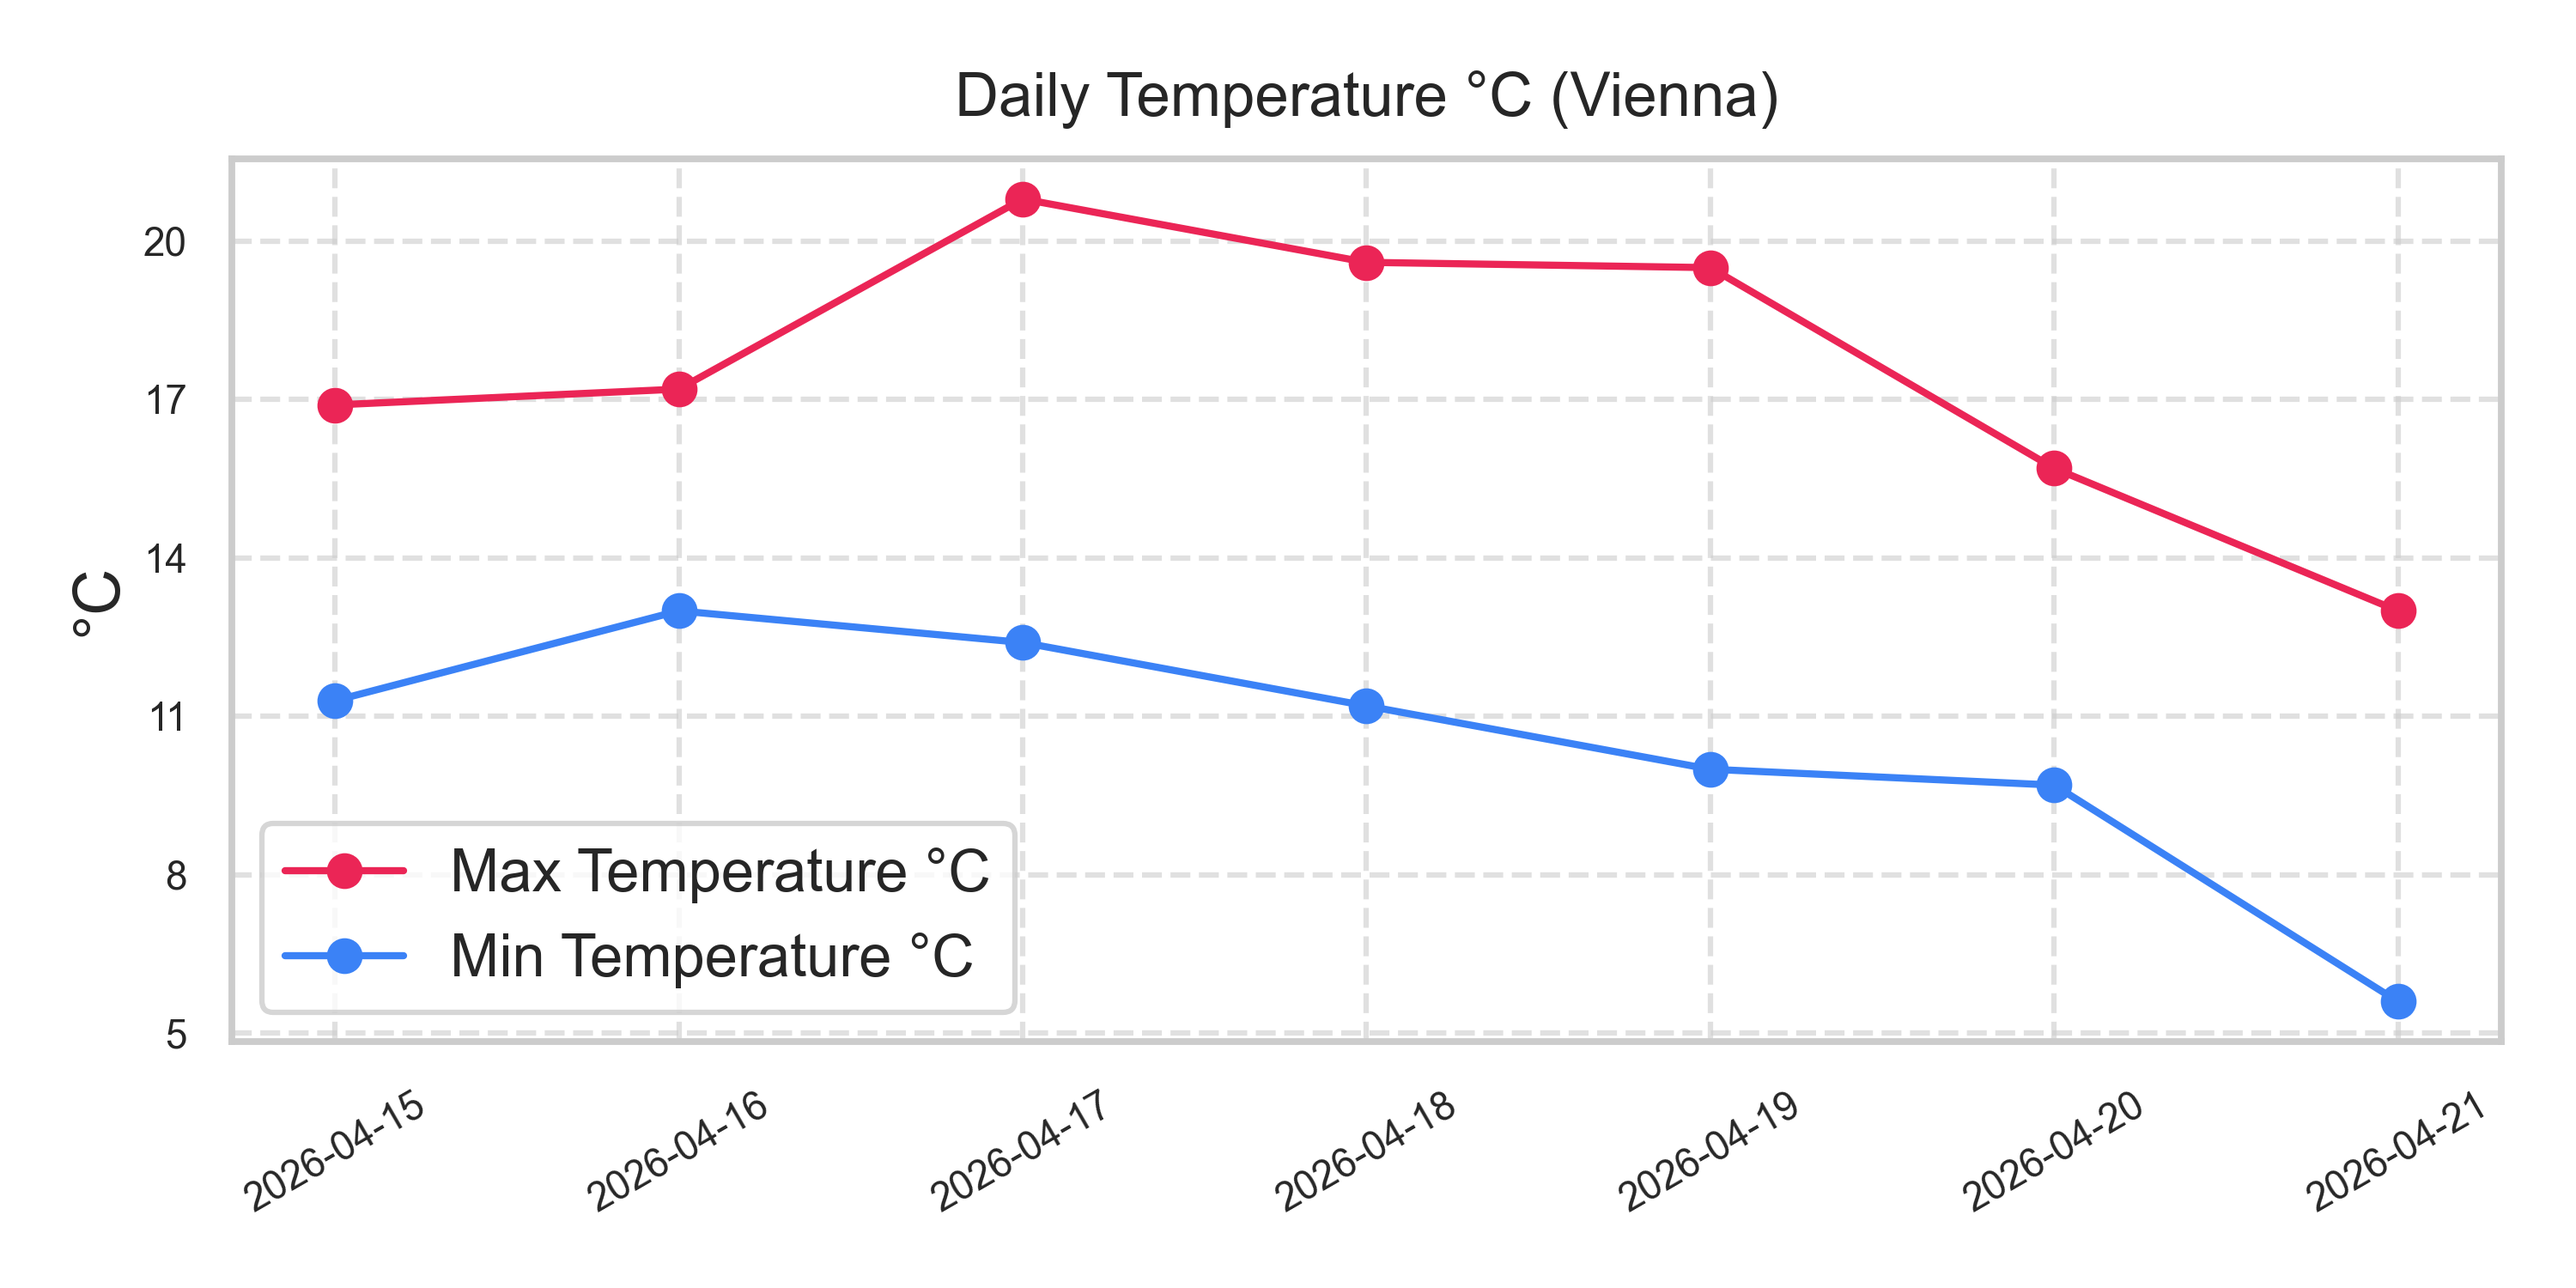
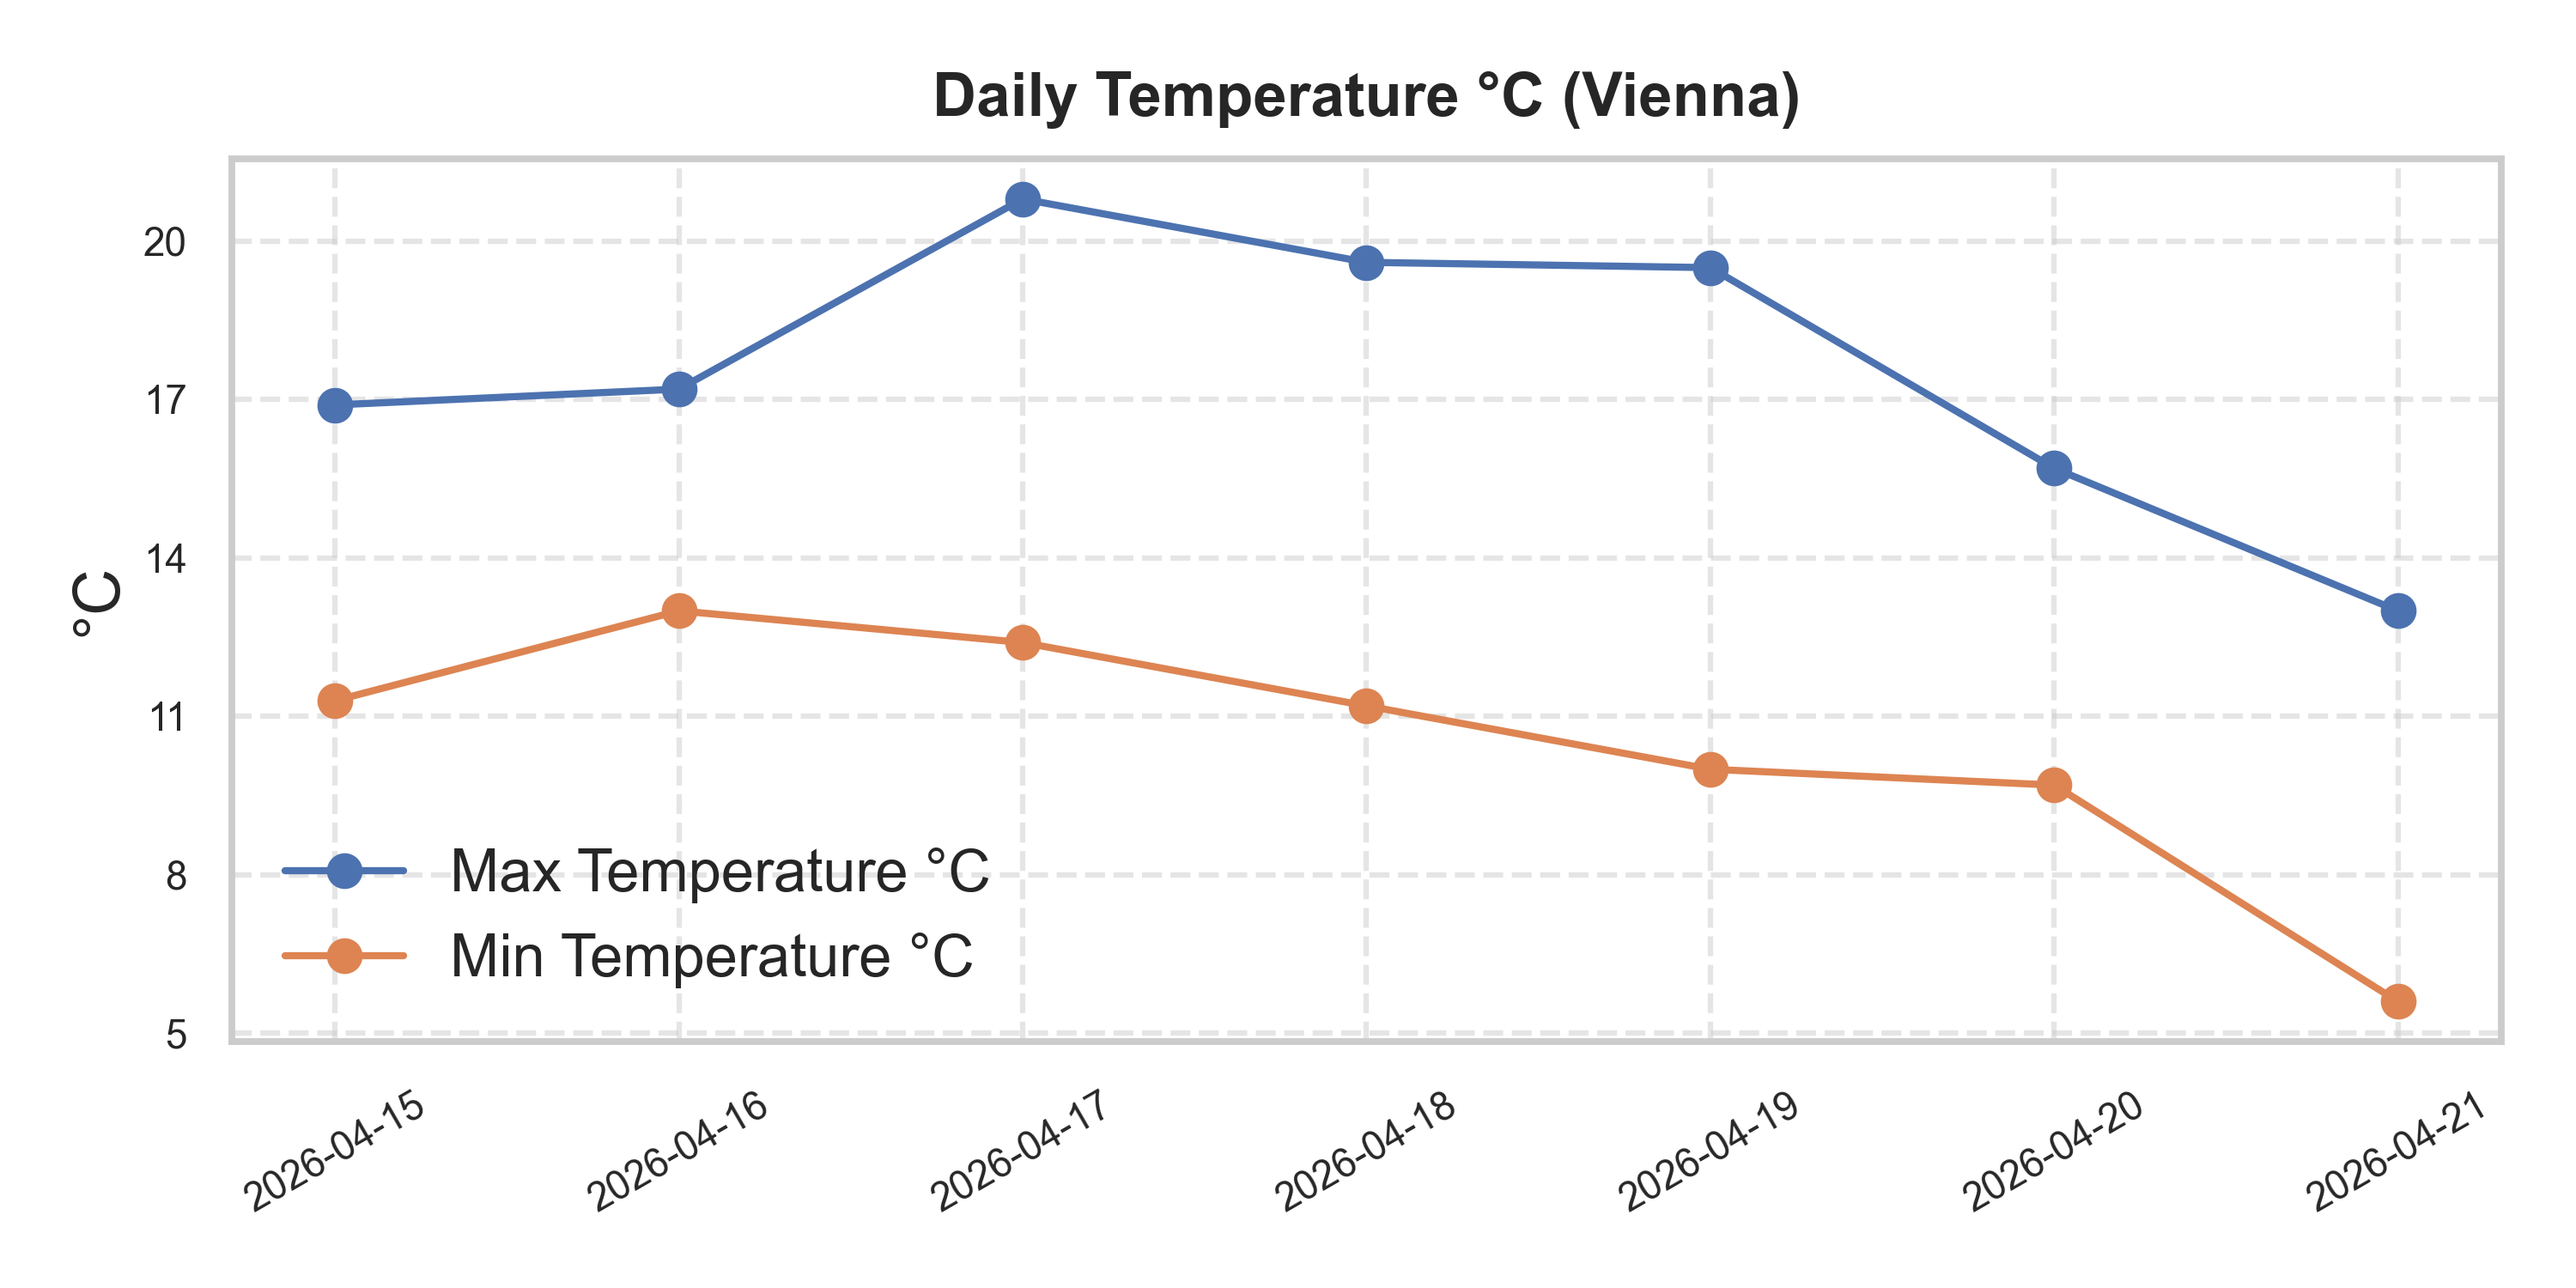
Enhance visualization styles and y-tick adjustments

diff --git a/src/visualization.py b/src/visualization.py
@@ -3,6 +3,8 @@ import matplotlib.pyplot as plt
 import seaborn as sns
 
 sns.set_theme(style="whitegrid", context="talk")
+sns.despine()
+sns.set_palette("deep")
 
 def plot_weather(df):
     _, ax = plt.subplots(figsize=(10, 5))
@@ -12,20 +14,20 @@ def plot_weather(df):
     ax.set_xticks(range(len(df)))
     ax.set_xticklabels(df["date_str"], fontsize=11, rotation=30)
 
-    ax.plot(x, df["temp_max"], label="Max Temperature °C", marker='o', linewidth=2, color="#eb2556")
-    ax.plot(x, df["temp_min"], label="Min Temperature °C", marker='o', linewidth=2, color="#3b82f6")
+    ax.plot(x, df["temp_max"], label="Max Temperature °C", marker='o', linewidth=2)
+    ax.plot(x, df["temp_min"], label="Min Temperature °C", marker='o', linewidth=2)
 
-    ax.set_title("Daily Temperature °C (Vienna)", fontsize=17, pad=12)
+    ax.set_title("Daily Temperature °C (Vienna)", fontsize=17, pad=12, weight="bold")
     ax.set_ylabel("°C")
 
     y_min = int(df["temp_min"].min())
     y_max = int(df["temp_max"].max())
-    ax.set_yticks(np.arange(y_min, y_max + 1, 3))
+    ax.set_yticks(np.arange(y_min, y_max + 2, 3))
 
     ax.tick_params(axis='y', labelsize=11)
 
-    ax.legend()
-    ax.grid(True, linestyle='--', alpha=0.6)
+    ax.legend(frameon=False)
+    ax.grid(True, linestyle='--', alpha=0.5)
 
     plt.tight_layout()
     plt.savefig("outputs/weather_data.png", dpi=300)
@@ -36,9 +38,9 @@ def plot_precipitation(df):
 
     width = 0.35
 
-    ax.bar(df["date"], df["precipitation"], width, color="#60a5fa")
+    ax.bar(df["date"], df["precipitation"], width)
 
-    ax.set_title("Daily Precipitation (Vienna)", fontsize=17, pad=12)
+    ax.set_title("Daily Precipitation (Vienna)", fontsize=17, pad=12, weight="bold")
     ax.set_ylabel("mm")
 
     y_max = int(df["precipitation"].max()) + 2
@@ -47,7 +49,8 @@ def plot_precipitation(df):
 
     ax.tick_params(axis='y', labelsize=11)
 
-    ax.grid(True, linestyle='--', alpha=0.6)
+    ax.legend(frameon=False)
+    ax.grid(True, linestyle='--', alpha=0.5)
 
     plt.xticks(fontsize=11, rotation=30)
     plt.tight_layout()
@@ -68,22 +71,22 @@ def plot_temperature_with_ma(df):
         anomalies["date"],
         anomalies["temp_avg"],
         color="#7d0926",
-        label="Anomalies",
+        label="Heat peaks and cold dips",
         zorder=3
     )
 
-    ax.set_title("Temperature °C Trends (Vienna)", fontsize=17, pad=12)
+    ax.set_title("Temperature °C Trends (Vienna)", fontsize=17, pad=12, weight="bold")
     ax.set_ylabel("°C")
 
     y_min = int(df["temp_avg"].min())
     y_max = int(df["temp_avg"].max())
 
-    ax.set_yticks(np.arange(y_min, y_max + 1))
+    ax.set_yticks(np.arange(y_min, y_max + 2))
     
     ax.tick_params(axis='y', labelsize=11)
 
-    ax.legend()
-    ax.grid(True, linestyle='--', alpha=0.6)
+    ax.legend(frameon=False)
+    ax.grid(True, linestyle='--', alpha=0.5)
 
     plt.xticks(fontsize=11, rotation=30)
     plt.tight_layout()
